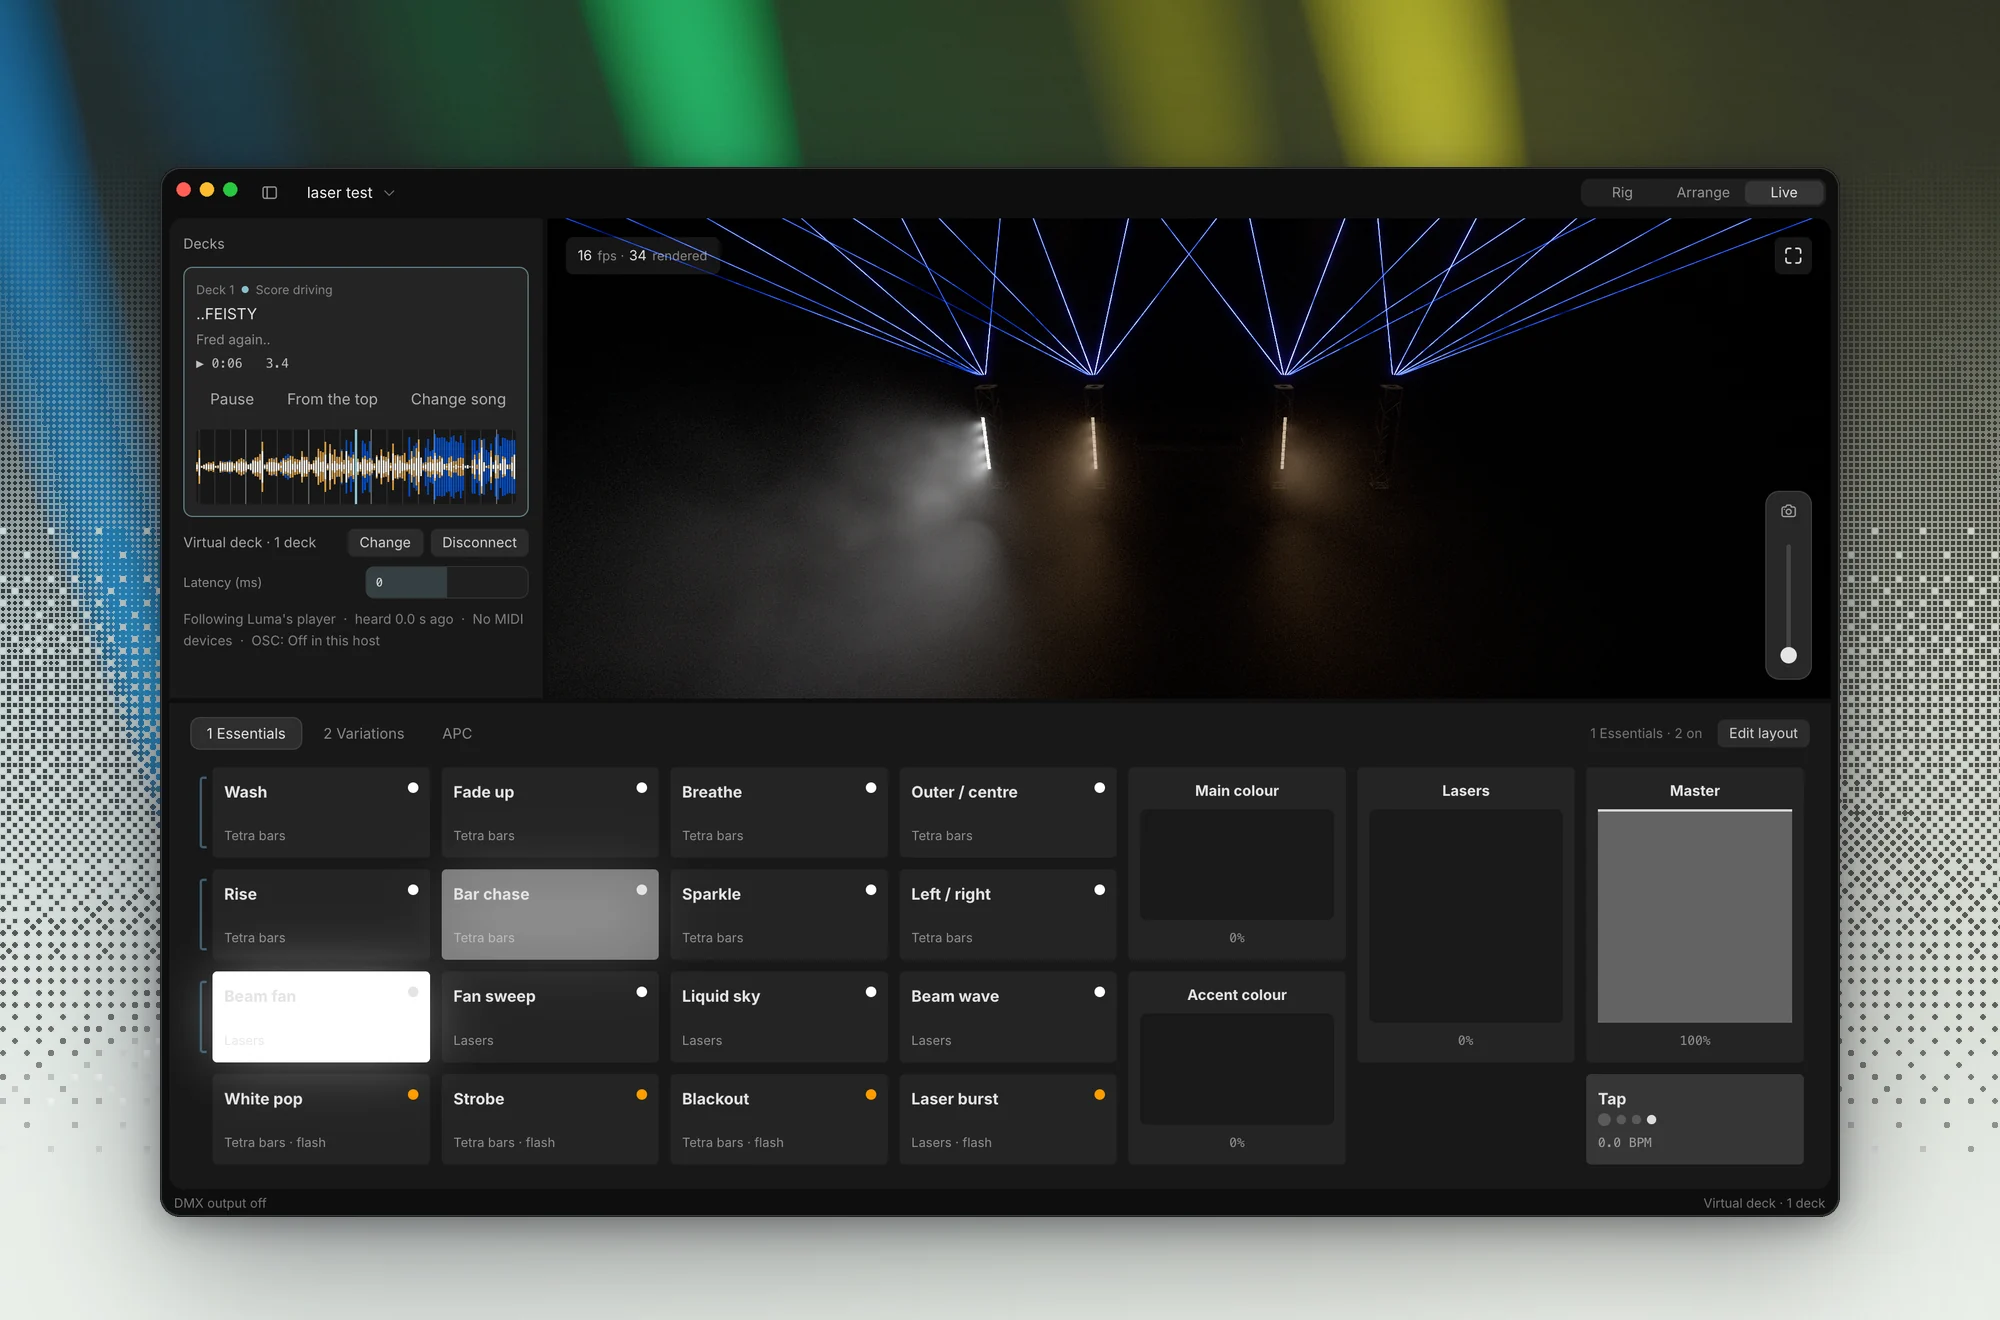
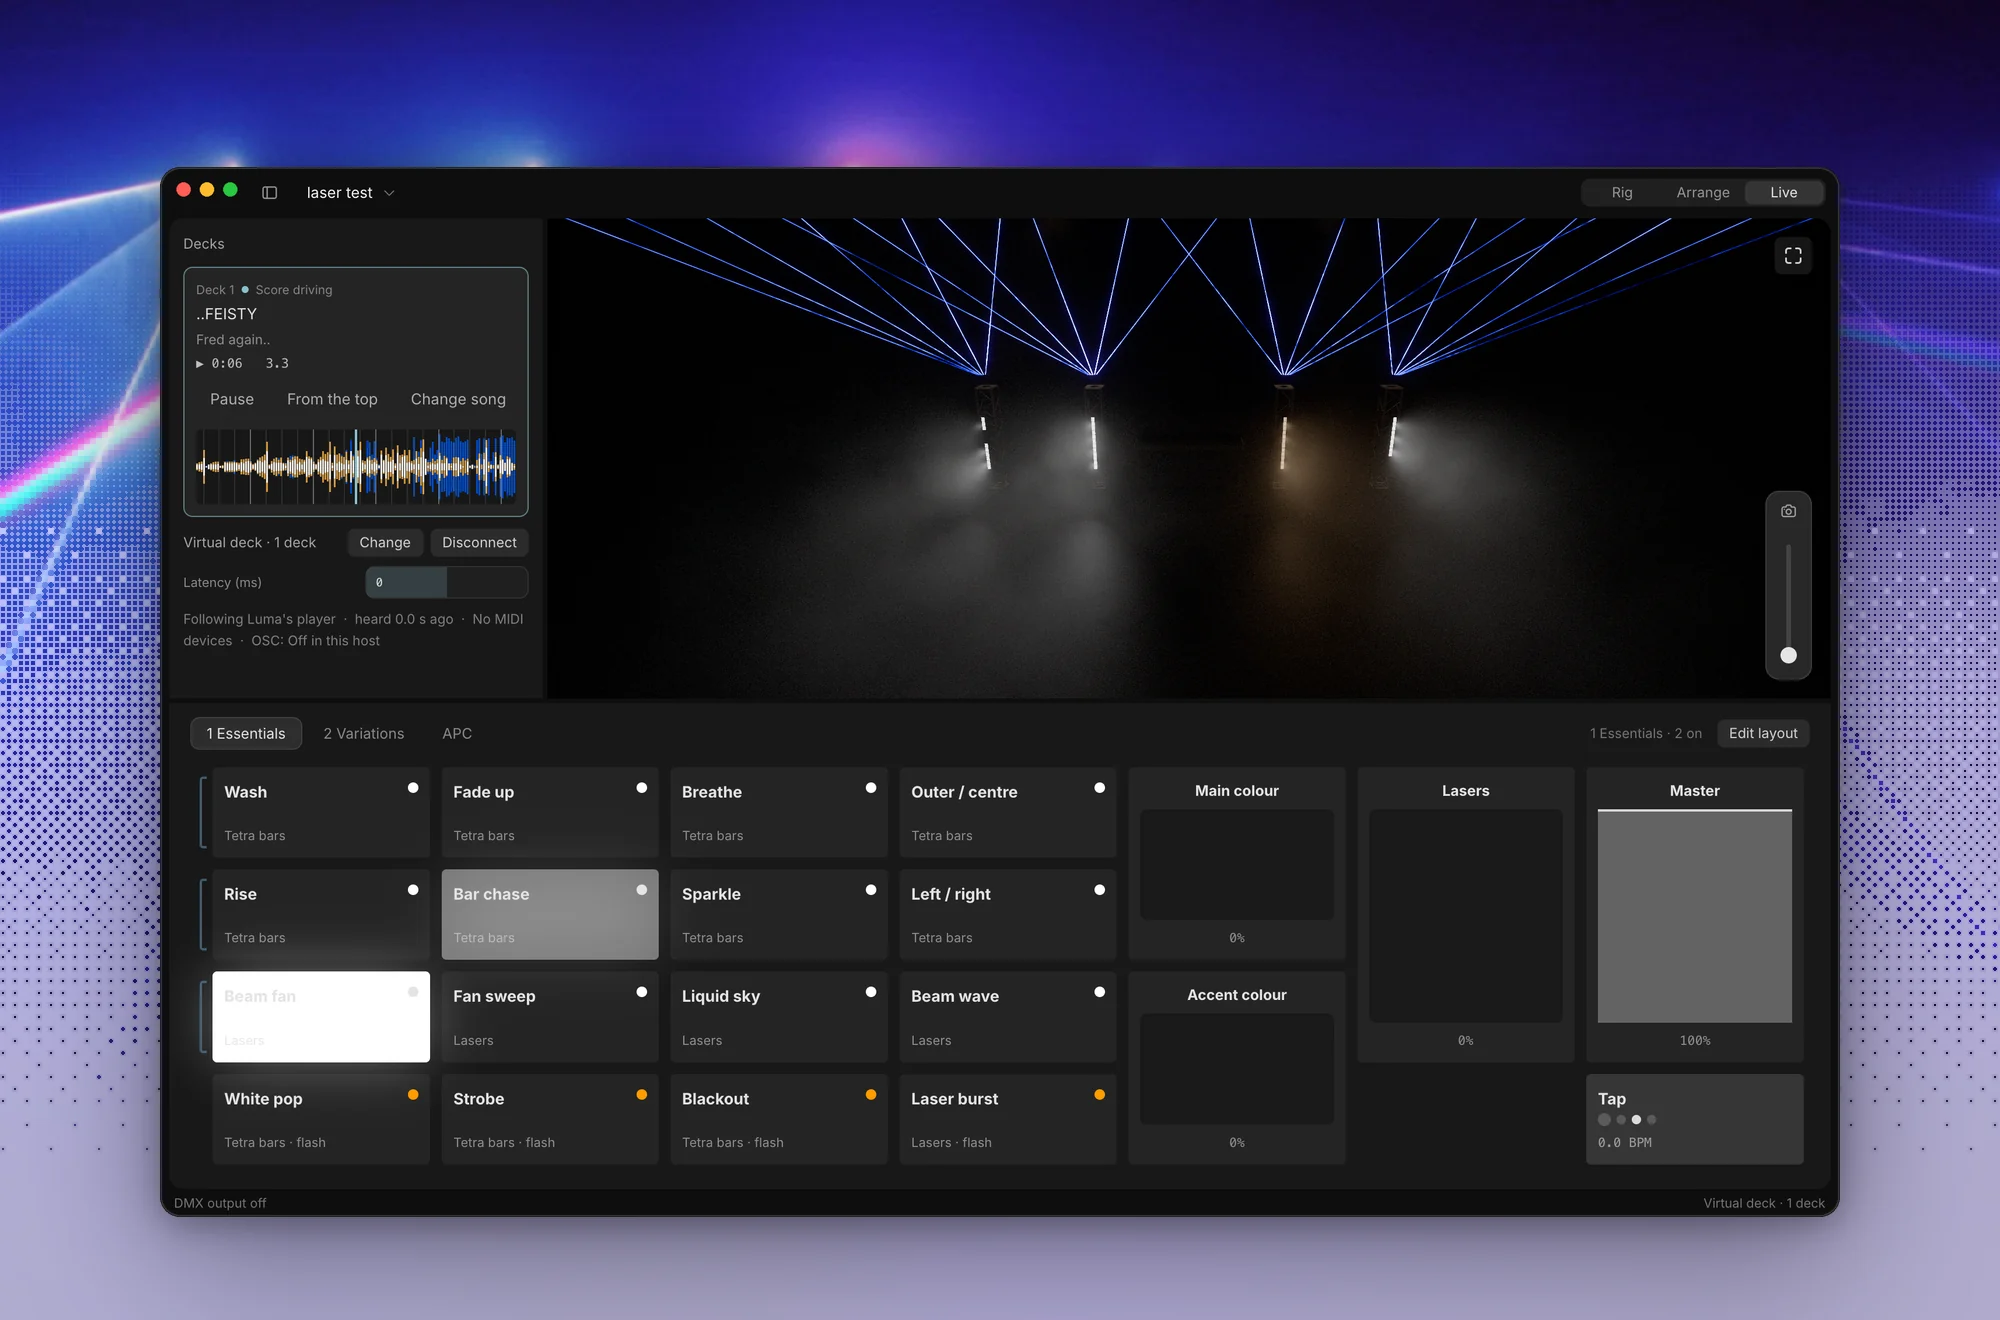
screenshots: an Unsplash laser photo behind the windows, the frame rate off in captures, and a show conversation in Arrange

diff --git a/scripts/screenshots/library.test.js b/scripts/screenshots/library.test.js
@@ -11,6 +11,8 @@
 const VENUE = "Gasworks Park";
 const SONG = "RXGER CLUB!";
 const SONG_AT = 0.3;
+// The conversation the Arrange shot shows, by how it opens: one about the show.
+const CHAT = "for the drop can we prototype";
 const LIVE_VENUE = "laser test";
 const LIVE_SONG = "..FEISTY";
 const LIVE_PADS = ["Beam fan", "Bar chase"];
@@ -19,7 +21,10 @@ fixture({
   mode: "pixel",
   window: [1440, 900],
   library: "$LUMA_SHOWCASE_LIBRARY",
-  sql: ["INSERT OR REPLACE INTO settings (key, value) VALUES ('stage_low_quality', 'false')"],
+  sql: [
+    "INSERT OR REPLACE INTO settings (key, value) VALUES ('stage_low_quality', 'false')",
+    "INSERT OR REPLACE INTO settings (key, value) VALUES ('stage_frame_rate', 'false')",
+  ],
 });
 
 const settle = (n = 30) => app.frames(n, { waitMs: 50 });
@@ -51,6 +56,11 @@ function openSong(venue, song) {
 
 test("arrange", { timeoutMs: 600000 }, () => {
   openSong(VENUE, SONG);
+  nav.step("the chat history", "button", "Chat history");
+  const chat = until("the conversation", (s) =>
+    s.findAll({ role: "card" }).find((n) => n.label.startsWith(CHAT) && n.bounds.height > 0));
+  app.click(chat.findAll({ role: "card" }).find((n) => n.label.startsWith(CHAT) && n.bounds.height > 0));
+  until("the conversation open", (s) => s.find({ role: "card", label: "Chat history dialog" }) === undefined);
   seek(SONG_AT);
   settle(60);
   keep("arrange");

diff --git a/scripts/screenshots/showcase.test.js b/scripts/screenshots/showcase.test.js
@@ -80,6 +80,7 @@ for (const [name, members] of Object.entries(groups)) {
 // -- the library ---------------------------------------------------------------
 
 const HAZE = { enabled: true, density: 0.38, appearance: { cloudiness: 0.55, cloudSize: 5, turbulence: 0.25, windSpeed: 0.2, windDirection: 30 } };
+sql.push("INSERT OR REPLACE INTO settings (key, value) VALUES ('stage_frame_rate', 'false')");
 sql.push(`UPDATE venues SET name = '${VENUE}', haze = '${JSON.stringify(HAZE)}' WHERE id = 'venue-main'`);
 sql.push(`UPDATE tracks SET title = '${SONG}', artist = 'Halden', album = 'Night Bloom',
     file_path = '$LIBRARY/night-bloom.mp3', album_art_path = '$LIBRARY/art/night-bloom.jpg',

diff --git a/scripts/screenshots/composite.py b/scripts/screenshots/composite.py
@@ -55,15 +55,16 @@ def cover(img, size, centre_x):
     return scaled.crop((left, top, left + w, top + h))
 
 
-def backdrop(stage, size, centre_x):
+def backdrop(stage, size, centre_x, render):
     w, h = size
     art = cover(stage, size, centre_x).convert("RGB")
     art = np.asarray(art.filter(ImageFilter.GaussianBlur(1.2))).astype(np.float32) / 255
     # Lift the stage a little, and soften its saturated colour toward its own
     # grey: the render is dark and loud, and the backdrop is art.
-    grey = art @ np.array([0.3, 0.59, 0.11], np.float32)
-    art = art * 0.8 + grey[..., None] * 0.2
-    art = np.clip(art * 1.2 + 0.03, 0, 1) ** 0.92
+    if render:
+        grey = art @ np.array([0.3, 0.59, 0.11], np.float32)
+        art = art * 0.8 + grey[..., None] * 0.2
+        art = np.clip(art * 1.2 + 0.03, 0, 1) ** 0.92
 
     # The fog: the stage's own light, spread wide and washed toward white.
     spread = Image.fromarray((art * 255).astype(np.uint8)).filter(ImageFilter.GaussianBlur(w / 14))
@@ -138,8 +139,8 @@ def shadow(canvas_size, box, mask, blur, alpha, offset):
     return layer.filter(ImageFilter.GaussianBlur(blur))
 
 
-def compose(stage, shot, size, share, centre_x):
-    canvas = backdrop(stage, size, centre_x).convert("RGBA")
+def compose(stage, shot, size, share, centre_x, render):
+    canvas = backdrop(stage, size, centre_x, render).convert("RGBA")
     win = window(shot, round(size[0] * share))
     x = (size[0] - win.width) // 2
     y = round((size[1] - win.height) * 0.62)
@@ -172,7 +173,7 @@ def main():
         w, h = stage.size
         stage = stage.crop((round(w * 0.04), round(h * 0.07), round(w * 0.94), round(h * 0.9)))
     for name, (capture, size, share, centre_x) in IMAGES.items():
-        image = compose(stage, Image.open(shots / f"{capture}.png"), size, share, centre_x)
+        image = compose(stage, Image.open(shots / f"{capture}.png"), size, share, centre_x, backdrop_file is None)
         path = out / f"{name}.webp"
         image.save(path, quality=86, method=6)
         print(f"{path.relative_to(REPO) if path.is_relative_to(REPO) else path}: {path.stat().st_size // 1024} KB")

diff --git a/scripts/screenshots/README.md b/scripts/screenshots/README.md
@@ -17,6 +17,7 @@ scripts/screenshots/capture --library DIR SHOTS_DIR # raw captures kept there
 | `showcase.test.js` | Captures from a staged library made of made-up names: the fixture definitions, cover art and audio in `harness/showcase/`. Anyone can run it. |
 | `library.test.js` | Captures from a copy of a real library, named by `--library`. The venues, songs and scores it opens are constants at its top. |
 | `composite.py` | Composes each capture over the backdrop: `backdrop.jpg` here when it exists, else the stage capture. |
+| `backdrop.jpg` | The backdrop photo; see below. |
 | `make_assets.py` | Writes the showcase library's art and audio. Run it only to change them. |
 
 ## A real library
@@ -32,3 +33,12 @@ makes for the account that owns the rows. It never reads the library's own
 reading their audio and art where they name them.
 
 Nothing from a real library is committed: only the composed images.
+
+## The backdrop
+
+`backdrop.jpg` is "laser show" by Artem Bryzgalov,
+https://unsplash.com/photos/r4qdM8iD5WY, under the
+[Unsplash License](https://unsplash.com/license): free for commercial use, no
+attribution required (given here anyway). It is cropped to the beams and
+resized to 2400 pixels wide; the same credit is in the file's JPEG comment.
+A replacement must carry a licence as free, and no identifiable faces.
